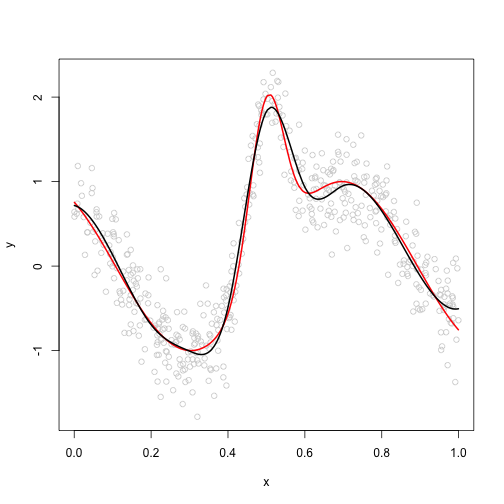
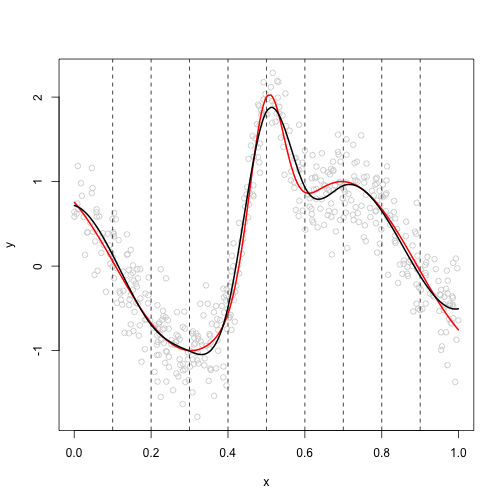
update

diff --git a/docs/slides/16_MBL/16_MBL.html b/docs/slides/16_MBL/16_MBL.html
@@ -47,9 +47,7 @@ Common approaches in regression to deal with nonlinear relationships are
 
 * Smoothing splines
 
-* Generalized additive models
-
-* Local regression 
+* Local regression, e.g. LOWESS (locally weighted scatterplot smoothing)
 
 ---
 
@@ -150,12 +148,29 @@ where `\(b_j(\cdot)\)` are known functions called __basis functions__. For examp
 
 ---
 
+layout: false
+class: inverse, middle, center
+
 # Regression splines
 
-* A __spline__ of __degree__ `\(d\)` with knots `\(\xi_1,\ldots,\xi_K\)` is a
-piecewise-polynomial function of degree `\(d\)`, and it has continuous derivatives up to order `\(d-1\)` at each knot
+---
 
-* It is defined by the __truncated power basis__:
+# Regression splines
+
+A __spline__ of __degree__ `\(d\)` with knots `\(\xi_1,\ldots,\xi_K\)` is a
+piecewise-polynomial function `\(f\)` of degree `\(d\)`  that is continuous and has
+continuous derivatives of orders `\(1\)`, . . . `\(d-1\)`, at its knot points, i.e. 
+
+* `\(f\)` is a polynomial of degree `\(d\)` on each of the intervals `$$(-\infty,\xi_1],[\xi_1,\xi_2],[\xi_2,\xi_3],\ldots,[\xi_{K-1},\xi_{K}], [\xi_{K}, \infty)$$`
+
+* `\(f\)` is continuous and has continuous derivatives of orders `\(1\)`, . . . `\(d-1\)` at each knot, i.e.  `$$f(\xi_k^-)=f(\xi_k^+), \quad f'(\xi_k^-)=f'(\xi_k^+), \quad \ldots, \quad f^{(d-1)}(\xi_k^-)=f^{(d-1)}(\xi_k^+), \quad k=1,\ldots,K$$` where `\(\xi_k^+\)` and `\(\xi_k^-\)` indicate indicate the left and right limits of the function at `\(\xi_k\)`
+
+
+---
+
+# Truncated power basis
+
+* A __spline__ of __degree__ `\(d\)` with knots `\(\xi_1,\ldots,\xi_K\)` can be defined by the __truncated power basis__:
 `$$b_j(x) = x^{j-1}, \quad j=1,\ldots,d+1$$`
 `$$b_{d+k+1}(x) = (x - \xi_k)_+^{d}, \quad k=1,\ldots, K$$`
 where `\((\cdot)_+\)` defines the positive portion of its argument, i.e. 
@@ -256,6 +271,13 @@ lines(x,fitted, lwd=2)
 
 ---
 
+layout: false
+class: inverse, middle, center
+
+# Natural cubic splines
+
+---
+
 # Natural cubic splines
 
 * One problem with regression splines is that the estimates
@@ -269,7 +291,7 @@ leftmost knot, and to the right of the rightmost knot
     - `\(f\)` is a cubic polynomial on each `$$[\xi_1,\xi_2],[\xi_2,\xi_3],\ldots,[\xi_{K-1},\xi_{K}]$$`
 
     - `\(f\)` is linear on `\((-\infty, \xi_1]\)` and `\([\xi_K,\infty)\)`
-    -  `\(f\)` is continuous and has continuous derivatives `\(f'\)` and `\(f''\)` at each knot `\(\xi_1,\ldots,\xi_K\)`: `\(f(\xi_k^-)=f(\xi_k^+)\)`, `\(f'(\xi_k^-)=f'(\xi_k^+)\)` and `\(f''(\xi_k^-)=f''(\xi_k^+)\)`, `\(k=1,\ldots,K\)`, where `\(\xi_k^+\)` and `\(\xi_k^-\)` indicate indicate the left and right limits of the function `\(f(\cdot)\)` at `\(\xi_k\)`
+    -  `\(f\)` is continuous and has continuous derivatives `\(f'\)` and `\(f''\)` at each knot `\(\xi_1,\ldots,\xi_K\)`: `$$f(\xi_k^-)=f(\xi_k^+),\quad  f'(\xi_k^-)=f'(\xi_k^+), \quad f''(\xi_k^-)=f''(\xi_k^+), \qquad k=1,\ldots,K$$`
 
 
 ---
@@ -319,6 +341,7 @@ intervals (i.e., outside the two boundary knots) are wasted since they do not af
 ```r
 library(splines)
 plot(x,y ,col="lightgray")
+abline(v=knots, lty=2)
 lines(x, fx, col=2, lwd=2)
 lines(x, fitted( lm(y ~ 0 + B ) ), lwd=2 )
 ```
@@ -331,10 +354,17 @@ lines(x, fitted( lm(y ~ 0 + B ) ), lwd=2 )
 
 # The number of knots and where to put them
 
-Natural cubic splines are very useful tools, but they do have one shortcoming: deciding the number and the placement of the knots
+Natural cubic splines have one shortcoming: deciding the number and the placement of the knots
 
 ![](16_MBL_files/figure-html/unnamed-chunk-15-1.png)&lt;!-- --&gt;
 
+
+---
+
+layout: false
+class: inverse, middle, center
+
+# Smoothing splines
 
 ---
 
@@ -459,6 +489,13 @@ lines(x, predict(fit)$y, lwd=2)
 
 ---
 
+layout: false
+class: inverse, middle, center
+
+# Generalized additive models
+
+---
+
 # Additive models
 
 * The additive model for regression is that the conditional expectation function is a sum of partial response functions, one for each predictor variable
@@ -474,7 +511,274 @@ and these just add up (hence "partial response function"), but these contributio
 
 * We do need to add a
 restriction to make it identifiable; without loss of generality, say that
-`$$\mathbb{E}(Y) = \beta_0, \qquad \mathbb{E}(f_j(X_j)) =0 \beta_0$$`
+`$$\mathbb{E}(Y) = \beta_0, \qquad \mathbb{E}(f_j(X_j)) =0$$`
+
+* How can we fit addittive models?
+
+---
+
+* Linear models assume
+`$$\mathbb{E}(Y|X=x) = \sum_{j=0}^{p} \beta_j x_j$$`
+where `\(x_0\)` is always the constant 1
+
+* Suppose we don't condition on all `\(X=(X_0,\ldots,X_p)'\)` but just one component of it, say `\(X_k\)`. Then 
+`$$\mathbb{E}(Y|X_k=x_k) =  \beta_k x_k + \mathbb{E}(\sum_{j\neq k} \beta_j X_j|X_k=x_k)$$`
+
+* Then
+`$$\mathbb{E}(Y^{(k)}|X_k=x_k) =  \beta_k x_k$$`
+where `\(Y^{(k)} = Y - \sum_{j\neq k} \beta_j X_j\)` the `\(k\)`th __partial residual__: the difference between `\(Y\)` and what we expect it to be __ignoring__ the contribution from `\(X_k\)`
+
+* This suggests the following estimation scheme for linear models, known as the
+__Gauss-Seidel algorithm__, or more commonly as __back-fitting__
+
+---
+
+* Given: 
+    - `\(n\times p\)` matrix `\(\mathbf{X}\)` of `\(p\)` predictors
+    - `\(n\times 1\)` response vector `\(\mathbf{y}\)`
+    - small tolerance `\(\delta &gt; 0\)`
+
+* Center `\(\mathbf{y}\)` and each column of `\(\mathbf{X}\)`
+
+* Initialize `\(\hat{\beta}_{j} \leftarrow 0\)` for `\(j=1,\ldots,p\)`
+
+* Until (all `\(|\hat{\beta}_j - \gamma_j| \leq \delta\)` ){
+
+    for `\(k=1,\ldots, p\)` {
+    
+      `\(y_i^{(k)} = y_i - \sum_{j\neq k} \hat{\beta}_jx_{ij}\)`
+    
+      `\(\gamma_k \leftarrow\)` regression coefficient of `\(y^{(k)}\)` on `\(x_k\)`
+    
+      `\(\hat{\beta}_j \leftarrow  \gamma_k\)`
+      
+      }}
+
+* `\(\hat{\beta}_{0} \leftarrow \bar{y} - \sum_{j=1}^{p} \hat{\beta}_j \bar{x}_{j}\)` with original data
+
+* Return `\(\hat{\beta}_0, \hat{\beta}_1, \ldots, \hat{\beta}_p\)`
+
+
+---
+
+Generate a response `\(Y\)` and predictors `\(X_1\)`, `\(X_2\)` and `\(X_3\)` with `\(n = 100\)` as follows:
+
+
+```r
+n = 100
+set.seed(123)
+x1 = rnorm(n)
+x2 = rnorm(n)
+x3 = rnorm(n)
+y = 30 - 10*x1 + 20*x2 + 30*x3 + rnorm(n)
+fit = lm(y ~ x1+x2+x3)
+X = model.matrix(fit)
+```
+
+---
+
+
+```r
+# center y and X
+yc = y - mean(y)
+Xc = apply(X[,-1],2,function(x) x-mean(x))
+# initialize 
+p = ncol(Xc)
+hatbeta = rep(0,p)
+# 1st loop
+for (k in 1:p){
+  yk = yc - Xc[,-k,drop=F] %*% hatbeta[-k, drop=F]
+  gammak = coef(lm(yk ~ 0+ Xc[,k]))
+  hatbeta[k] &lt;- gammak
+}
+#2nd loop
+for (k in 1:p){
+  yk = yc - Xc[,-k, drop=F] %*% hatbeta[-k, drop=F]
+  gammak = coef(lm(yk ~ 0+ Xc[,k]))
+  hatbeta[k] &lt;- gammak
+}
+hatbeta0&lt;- mean(y) - sum(hatbeta*apply(X[,-1],2,mean))
+c(hatbeta0,hatbeta)
+```
+
+```
+[1]  29.98813 -10.10820  20.06330  29.93553
+```
+
+---
+
+# Backfitting Additive Models
+
+* Define the partial residuals by analogy with the linear case, as
+`$$Y^{(k)} = Y - \left(\beta_0 - \sum_{j\neq k} f_j(x_j) \right)$$`
+
+* Then 
+`$$\mathbb{E}(Y^{(k)}|X_k=x_k) =  f_k(x_k)$$`
+
+* We could use nearest neighbors, or splines, or kernels, or local-linear regression, or anything else
+
+---
+
+* Given: 
+    - `\(n\times p\)` matrix of `\(p\)` predictors 
+    - `\(n\times 1\)` response vector 
+    - small tolerance `\(\delta &gt; 0\)`
+    - one-dimensional smoother `\(s\)` 
+
+* Initialize `\(\hat{\beta}_0 \leftarrow \bar{y}\)` and `\(\hat{f}_{j} \leftarrow 0\)` for `\(j=1,\ldots,p\)`
+
+* until (all `\(|\hat{f}_j - g_j| \leq \delta\)` ){
+
+    for `\(k=1,\ldots, p\)` {
+    
+      `\(y_i^{(k)} = y_i - \sum_{j\neq k} \hat{f}_j(x_{ij})\)`
+    
+      `\(g_k \leftarrow s( y^{(k)} \sim x_k)\)`
+    
+      `\(g_k \leftarrow g_k - n^{-1} \sum_{i=1}^{n}g_k(x_{ik})\)`
+    
+      `\(\hat{f}_{k} \leftarrow g_k\)`
+      
+      }
+      
+    }
+
+* Return `\(\hat{\beta}_0, \hat{f}_{1}, \ldots, \hat{f}_{p}\)`
+
+---
+
+# mgcv
+
+* The `mgcv` R package  is based not on
+backfitting, but rather on something called the *Lanczos
+algorithm*, a way of efficiently calculating truncated matrix
+decompositions that is beyond the scope of this course
+
+* The basic syntax is
+
+
+```r
+fit &lt;- gam(y ~ s(x1) + s(x2), data=train)
+```
+
+* One can add arguments to the `s()` function, but the default is to use a __natural cubic spline basis__ and to automatically choose the smoothing parameter `\(\lambda\)` via optimization of the __GCV__
+
+---
+
+# Interaction terms
+
+* One way to think about additive models, and about (possibly) including interaction terms, is to imagine doing a sort of __Taylor series expansion__ of the true regression function
+
+* The zero-th order expansion would be a constant:
+`$$f(x)\approx \beta_0$$`
+
+* A purely additive model would correspond to a first-order expansion:
+`$$f(x)\approx \beta_0 + \sum_{j=1}^{p}f_j(x_j)$$`
+
+* Two-way interactions come in when we go to a second-order expansion:
+`$$f(x)\approx \beta_0 + \sum_{j=1}^{p}f_j(x_j) + \sum_{j=1}^{p}\sum_{k=j+1}^{p}f_{jk}(x_j,x_k)$$`
+
+* For identifiability, we need `\(\mathbb{E}(f_{jk}(X_j,X_k) ) = 0\)`
+
+---
+
+# Thin-plate spline
+
+* Suppose we have two input variables, `\(x\)` and `\(z\)`, and a single response `\(y\)`. How could we do a spline fit?
+
+* One approach is to generalize the spline optimization problem so that we penalize the curvature of the spline surface (no longer a curve)
+
+* The appropriate penalized least-squares objective function to minimize is
+`$$\sum_{i=1}^{n}(y_i - f(x_i,z_i))^2 + \lambda \int \left[  \left(\frac{\partial^2 f}{\partial x^2} \right)^2 + 2\left(\frac{\partial^2 f}{\partial x \partial z} \right)^2 + \left(\frac{\partial^2 f}{\partial z^2} \right)^2 \right]$$`
+
+* The solution is called a __thin-plate spline__  ( `s(x,z)` in `mgcv` )
+
+* This is appropriate when the two predictors `\(x\)` and `\(z\)` are measured on similar scales
+
+---
+
+# Tensor product spline
+
+* An alternative is use the spline basis functions 
+`$$f(x,z) = \sum_{j=1}^{k_x}\sum_{k=1}^{k_z} \beta_{jk} b_{j}(x) b_{k}(z)$$`
+
+* Doing all possible multiplications of one set of numbers or functions with another is said to give their outer product or tensor product, so this is known as a __tensor product spline__   ( `te(x,z)` in `mgcv` )
+
+* This is appropriate when the measurement scales of `\(x\)` and `\(z\)` are very different
+
+* We have to chose the number of terms to include for each variable ( `\(k_x\)` and `\(k_z\)`)
+
+---
+
+# Generalized additive models
+
+* A natural step beyond generalized linear models is generalized additive models (GAMs), where instead of making the transformed mean response a linear function of the predictors, we make it an additive function of the predictors 
+
+* For example
+`$$\mathrm{logit}\{ \mathbb{E}(Y|X=x) \} = \beta_0 + f_1(x_1) + f_2(x_2) + \ldots + f_p(x_p)$$`
+
+---
+
+# California house prices
+
+* The Census Bureau divides the U.S. into geographic regions called __tracts__ of a few thousand people each
+
+*  Data from the 2011 American Community Survey, containing information on the housing stock and economic circumstances of every tract in California
+
+    -  __Median_house_value__ : The median value of the housing units in the tract (response)
+    - __POPULATION__, __LATITUDE__, __LONGITUDE__ : The population, latitude and longitude of the tract
+    - __Median_household_income__, __Mean_household_income__ : The median and mean income of households (in dollars, from all sources)
+    - __Total_units__, __Vacant_units__ : The total number of units and the number of vacant units
+    - __Owners__ : The percentage of households which own their home
+    - __Median_rooms__ : The median number of rooms per unit
+    - __Mean_household_size_owners__, __ Mean_household_size_renters__ The mean number of people per household which owns its home, the mean
+number of people per renting household
+
+---
+
+
+```r
+library(RCurl)
+calif &lt;- read.csv("https://raw.githubusercontent.com/aldosolari/DM/master/dataset/calif.csv")
+library(mgcv)
+fit &lt;- gam(log(Median_house_value) ~ s(Median_household_income) +
+                   s(Mean_household_income) + 
+                   s(POPULATION) + 
+                   s(Total_units) + 
+                   s(Vacant_units) +
+                   s(Owners) + 
+                   s(Median_rooms) + 
+                   s(Mean_household_size_owners)  + 
+                   s(Mean_household_size_renters) + 
+                  s(LATITUDE,LONGITUDE), data=calif)
+```
+
+---
+
+
+```r
+plot(fit, se = 2, shade = TRUE, resid = TRUE, select=1)
+```
+
+![](16_MBL_files/figure-html/unnamed-chunk-22-1.png)&lt;!-- --&gt;
+
+---
+
+
+```r
+plot(fit, select = 10, se = FALSE)
+```
+
+![](16_MBL_files/figure-html/unnamed-chunk-23-1.png)&lt;!-- --&gt;
+
+---
+
+
+```r
+plot(fit, select = 10, phi = 60, scheme = TRUE, ticktype = "detailed", cex.axis = 0.5)
+```
+
+![](16_MBL_files/figure-html/unnamed-chunk-24-1.png)&lt;!-- --&gt;
     </textarea>
 <style data-target="print-only">@media screen {.remark-slide-container{display:block;}.remark-slide-scaler{box-shadow:none;}}</style>
 <script src="https://remarkjs.com/downloads/remark-latest.min.js"></script>
